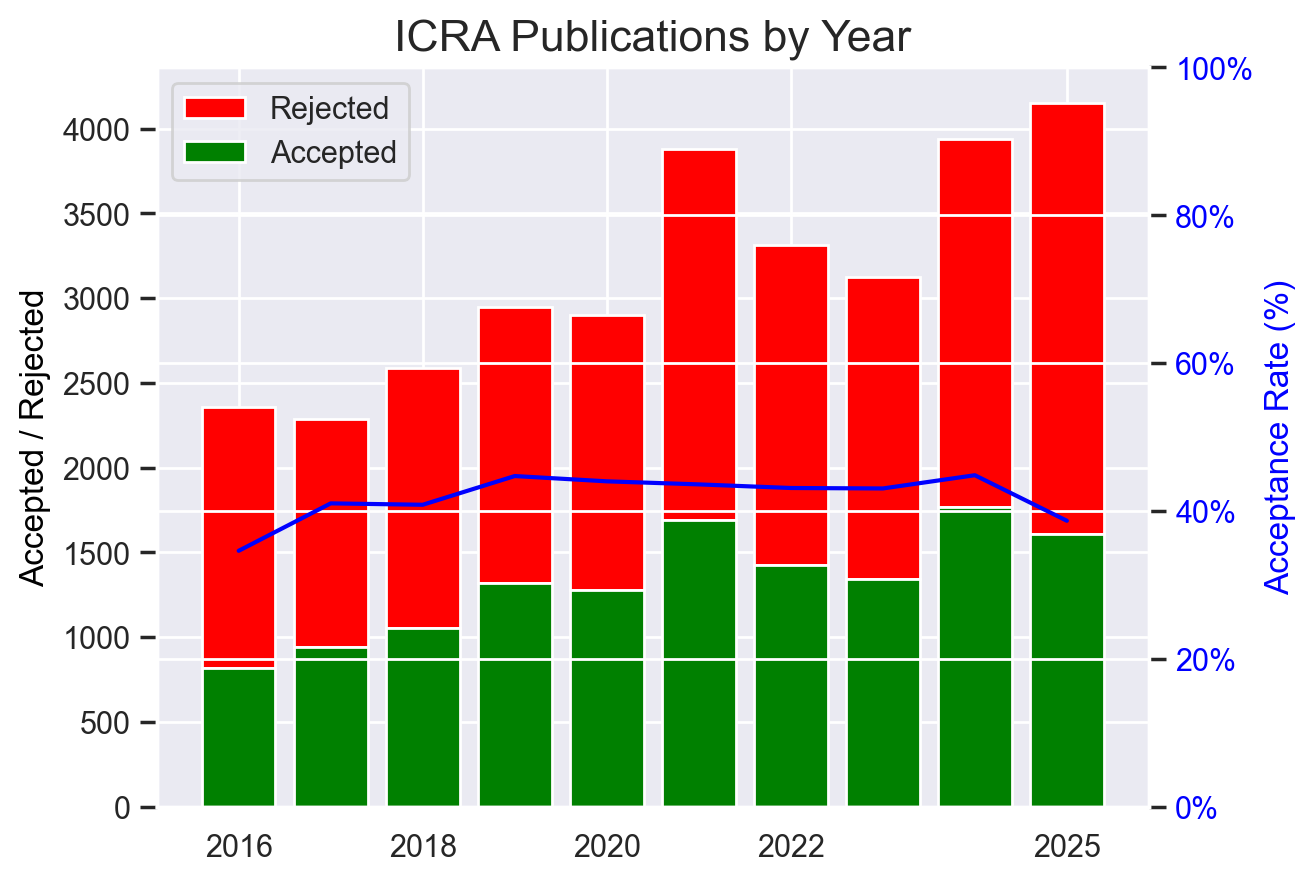
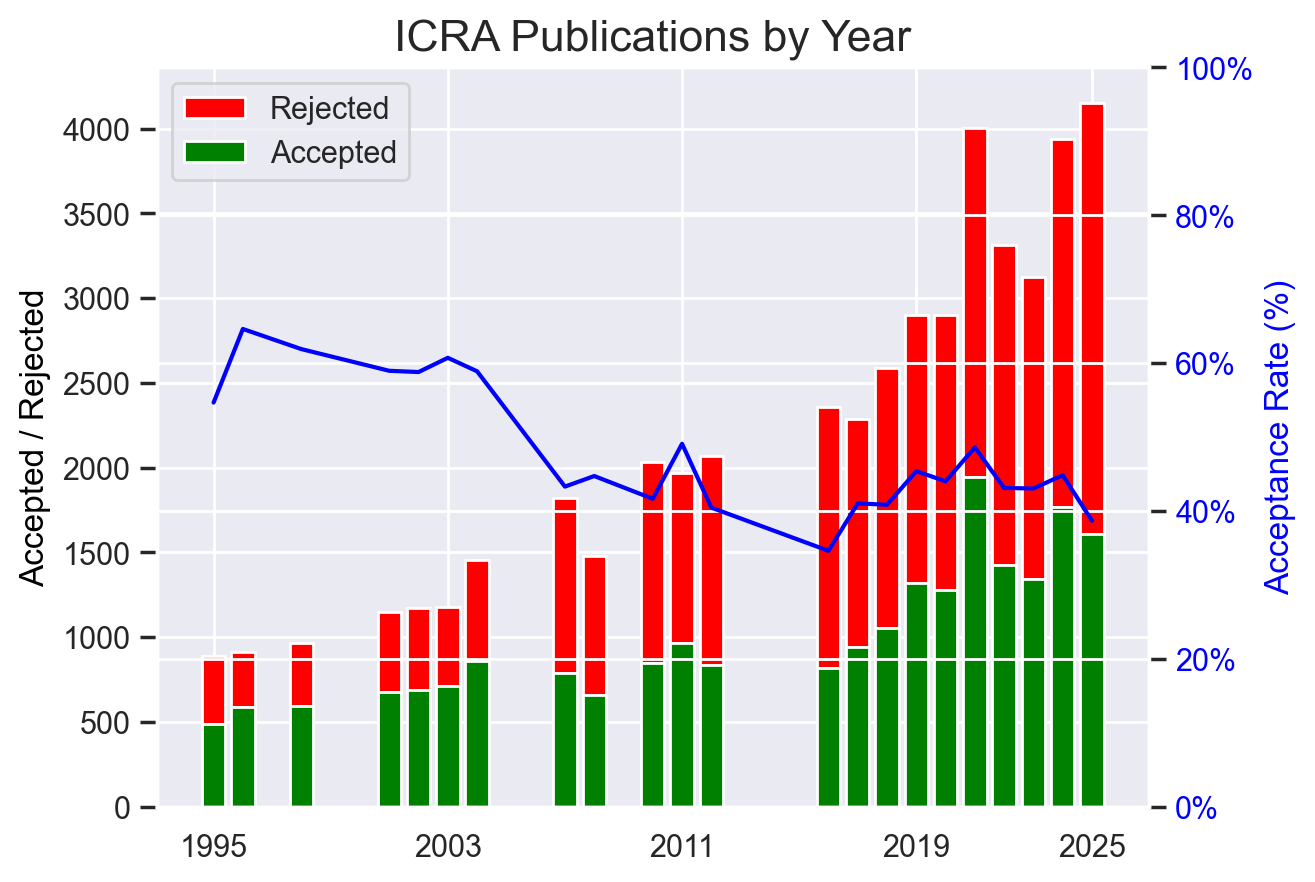
Update ICRA/IROS data from AIST
Fix discrepancies:
- ICRA 2019: 2945 -> 2902 submitted
- ICRA 2021: 1690/3877 -> 1946/4005
- IROS 2014: 750/1600 -> 755/1616
- IROS 2022: 1716 -> 1740 accepted

Add 23 missing years from AIST:
- ICRA: 1995-2012 (12 years)
- IROS: 1996-2019 (11 years)

🤖 Generated with [Claude Code](https://claude.com/claude-code)

diff --git a/README.md b/README.md
@@ -277,7 +277,7 @@
 </summary>
 <A NAME="ICRA"></A>
 <P><B><A HREF="https://dblp.org/db/conf/icra/index.html">ICRA</A></B>
- <em>mean acceptance rate, last 5 years: 43%</em></P>
+ <em>mean acceptance rate, last 5 years: 44%</em></P>
 <IMG SRC="https://github.com/emeryberger/csconferences/blob/main/graphs/ICRA.png?raw=true" WIDTH="500">
 <A NAME="IROS"></A>
 <P><B><A HREF="https://dblp.org/db/conf/iros/index.html">IROS</A></B>